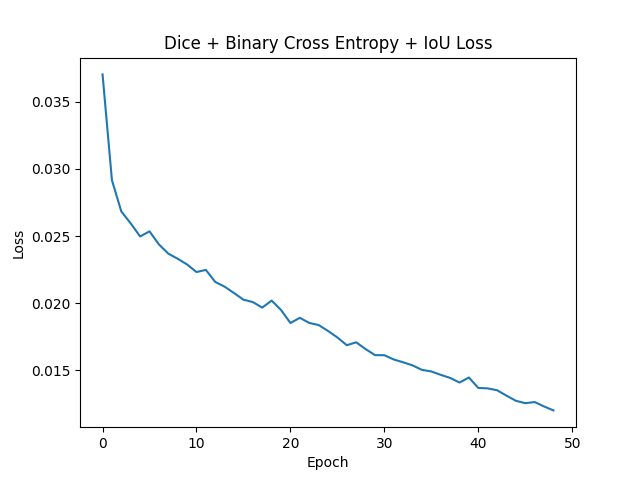
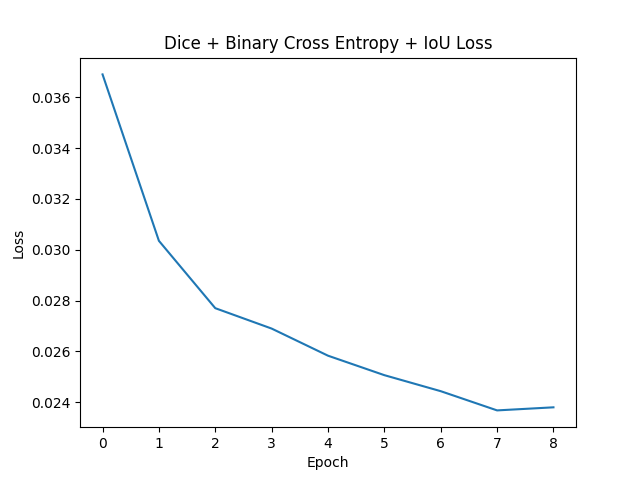
On branch litSAM Your branch is up to date with 'origin/litSAM'.
Changes to be committed:
	modified:   .gitignore
	modified:   README.md
	modified:   addon/npzConverter.py
	modified:   addon/nrrd_2_nii.py
	modified:   inference.sh
	deleted:    inference_test/test_result/preds/MR_cral_overlay/MR_cral_IMG8_Week10_processed.png
	modified:   metric.sh
	modified:   preprocessdata.sh
	modified:   train_one_gpu.py
	modified:   train_one_gpu.sh
	modified:   work_dir/train_loss.png

diff --git a/addon/npzConverter.py b/addon/npzConverter.py
@@ -7,6 +7,7 @@ import os
 import numpy as np
 import nibabel as nib
 import nrrd
+from nibabel.orientations import ornt_transform, axcodes2ornt, inv_ornt_aff
 
 Base = "D:/Ratlas/Rat_Atlas_2520Project"
 list = "D:/Ratlas/RatlasTransUNet/list"
@@ -68,7 +69,7 @@ def normalize(img):
     
 
 def readNpz():
-    train_npz_dir = "/home/steve/RatlasLiteMedSAM/inference_test/test_result/preds/MR_cral"
+    train_npz_dir = "/home/steve/RatlasLiteMedSAM/inference_test/test_result/preds/MR_cral/"
     name = 'MR_cral_IMG8_Week10_processed.npz'
     path = os.path.join(train_npz_dir, name)
     npz_data = np.load(path)
@@ -79,14 +80,21 @@ def readNpz():
 
     # # Create a NIfTI image from the numpy array
     # img = nib.Nifti1Image(npz_data["segs"], affine=np.eye(4))
-    affine = [[ 0, 1, 0, 0],
-              [-1, 0, 0, 0],
-              [ 0, 0, 1, 0],
-              [ 0, 0, 0, 1]]
-    img = nib.Nifti1Image(npz_data["segs"].transpose(1,2,0), affine=affine) # (slice, h, w) to (h, w, slice)
+    img = nib.Nifti1Image(npz_data["segs"].transpose(1,2,0), affine=np.eye(4)) # (slice, h, w) to (h, w, slice)
 
-    # Save the NIfTI image to a file
-    nib.save(img, 'MR_cral_IMG8_Week10_processed_seg.nii')
+    ## reorient the image
+    current_orientation = nib.aff2axcodes(img.affine)
+    print(current_orientation)
+    target_orientation = ('A', 'R', 'S')
+    ornt = ornt_transform(axcodes2ornt(current_orientation), axcodes2ornt(target_orientation))
+    reoriented_img = img.as_reoriented(ornt)
+    new_affine = inv_ornt_aff(ornt, img.shape)
+    nib.Nifti1Image(reoriented_img.get_fdata(), new_affine).to_filename('MR_cral_IMG8_Week10_processed_seg.nii')
+
+    # # Save the NIfTI image to a file
+    # nib.save(img, 'MR_cral_IMG8_Week10_processed_seg.nii')
+
+
 
 def generateSegsNpz(npz_data):
     # change gts to segs

diff --git a/train_one_gpu.py b/train_one_gpu.py
@@ -107,11 +107,11 @@ makedirs(work_dir, exist_ok=True)
 
 # %%
 torch.cuda.empty_cache()
-os.environ["OMP_NUM_THREADS"] = "1" # export OMP_NUM_THREADS=4
-os.environ["OPENBLAS_NUM_THREADS"] = "1" # export OPENBLAS_NUM_THREADS=4 
-os.environ["MKL_NUM_THREADS"] = "1" # export MKL_NUM_THREADS=6
-os.environ["VECLIB_MAXIMUM_THREADS"] = "1" # export VECLIB_MAXIMUM_THREADS=4
-os.environ["NUMEXPR_NUM_THREADS"] = "1" # export NUMEXPR_NUM_THREADS=6
+os.environ["OMP_NUM_THREADS"] = "4" # export OMP_NUM_THREADS=4
+os.environ["OPENBLAS_NUM_THREADS"] = "4" # export OPENBLAS_NUM_THREADS=4 
+os.environ["MKL_NUM_THREADS"] = "6" # export MKL_NUM_THREADS=6
+os.environ["VECLIB_MAXIMUM_THREADS"] = "4" # export VECLIB_MAXIMUM_THREADS=4
+os.environ["NUMEXPR_NUM_THREADS"] = "6" # export NUMEXPR_NUM_THREADS=6
 
 def show_mask(mask, ax, random_color=False):
     if random_color:
@@ -457,6 +457,8 @@ for epoch in range(start_epoch + 1, num_epochs):
         "loss": epoch_loss_reduced,
         "best_loss": best_loss,
     }
+    if epoch % 5 == 0:
+        torch.save(checkpoint, join(work_dir, f"medsam_lite_{epoch}.pth"))
     torch.save(checkpoint, join(work_dir, "medsam_lite_latest.pth"))
     if epoch_loss_reduced < best_loss:
         print(f"New best loss: {best_loss:.4f} -> {epoch_loss_reduced:.4f}")

diff --git a/addon/nrrd_2_nii.py b/addon/nrrd_2_nii.py
@@ -30,9 +30,9 @@ def gather_files(root_dir, keep_suffixs=['jpg', 'png']):
 # This code could be work correctlly
 # ----------------------------------------------------------------------------
 
-root_dir = '/home/steve/RatlasLiteMedSAM/inference_test/data/labels'
+root_dir = '/home/steve/RatlasLiteMedSAM/data/ratlas/labels'
 allfile, filelist = gather_files(root_dir, keep_suffixs=['nrrd'])
-baseDir = os.path.normpath('/home/steve/RatlasLiteMedSAM/inference_test/data/labels')
+baseDir = os.path.normpath('/home/steve/RatlasLiteMedSAM/data/ratlas/labels')
 files = glob(baseDir+'/*.nrrd')
 
 i = 1

diff --git a/README.md b/README.md
@@ -29,3 +29,9 @@ sh inference.sh
 <img src="asset/MR_cral_IMG8_Week10_processed.png" width="400" alt="result">
 
 > MR_cral_IMG8_Week10_processed.npz dsc value: 0.862131
+> MR_cral_IMG8_Week10_processed.npz,dsc value: 0.8643 (two more training cases)
+> MR_cral_IMG8_Week10_processed.npz,dsc value: 0.875 (earlystop)
+> MR_cral_IMG8_Week10_processed.npz,dsc value: 0.863877 (dedicated mask)
+
+### Validation
+<img src="asset/img2.png" width="400" alt="validation">
